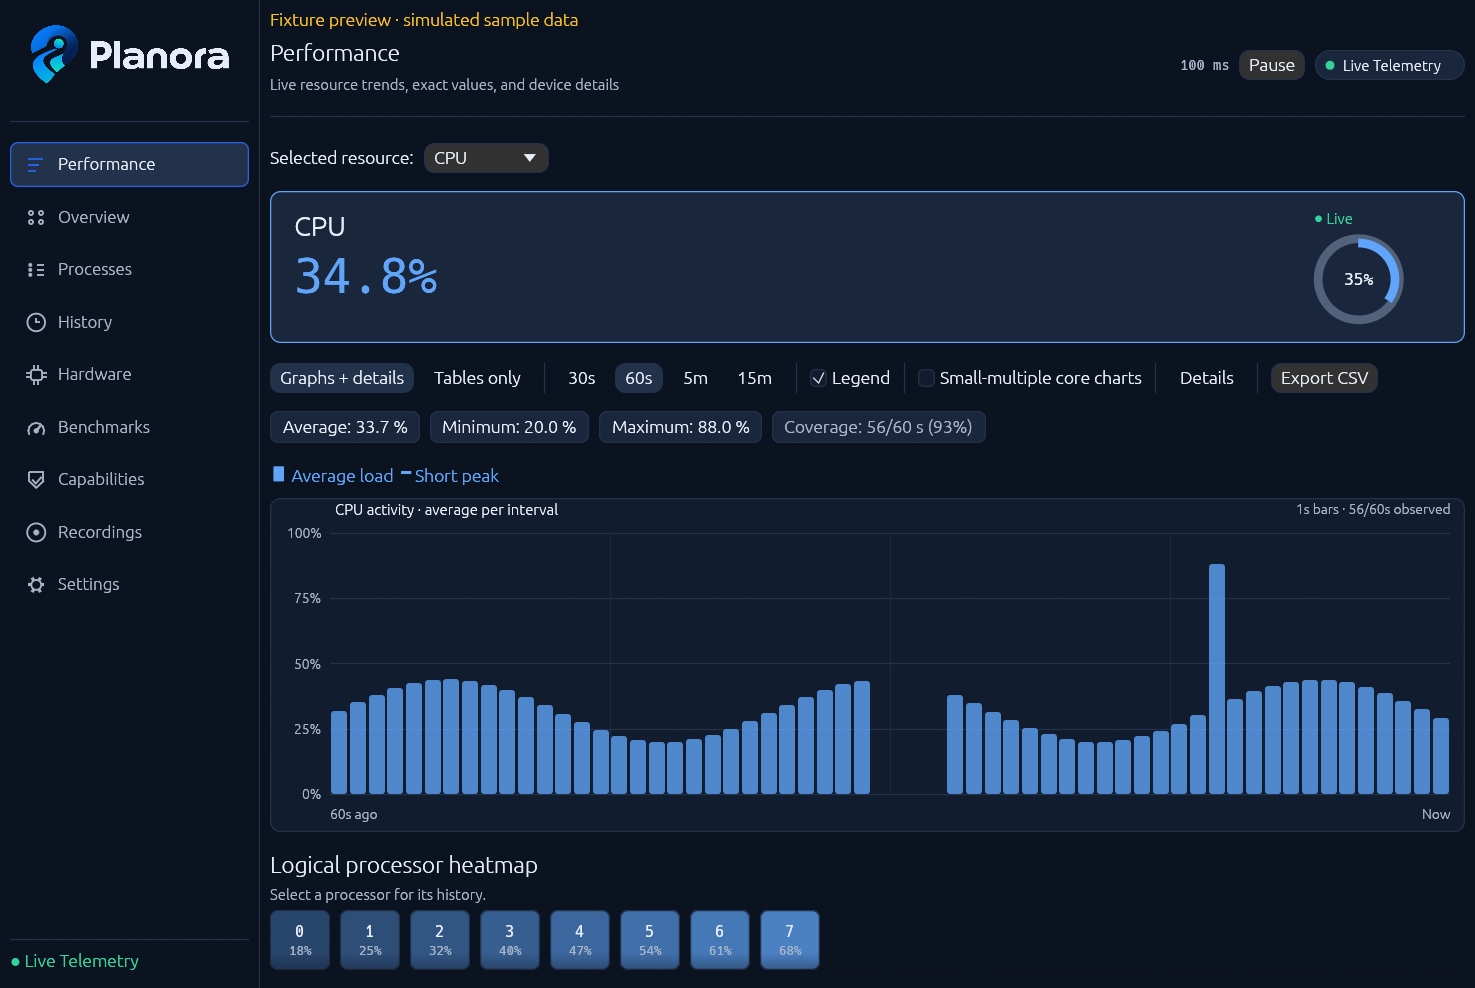
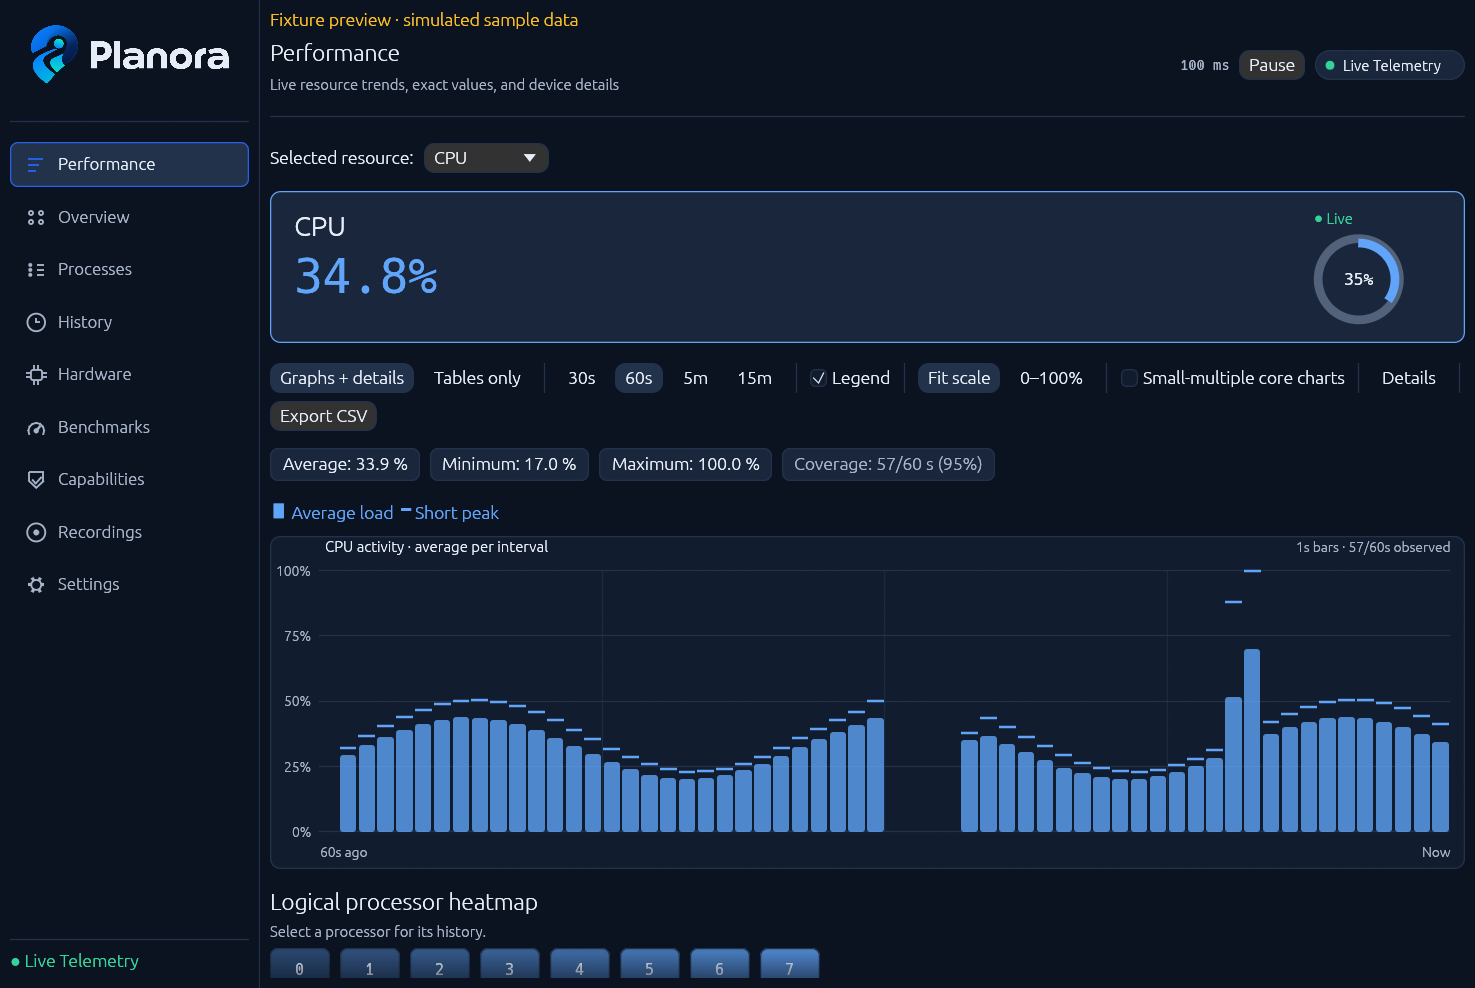
docs: record 0.3.0-beta.16 release evidence and native visual fixtures

diff --git a/docs/release-evidence-0.3.0-beta.16.md b/docs/release-evidence-0.3.0-beta.16.md
@@ -1,0 +1,33 @@
+# Planora 0.3.0-beta.16 internal package evidence
+
+Beta.16 delivers end-to-end telemetry graph smoothing, representation bounds enhancement, and artifact elimination across Performance, History, and Process views. It completely resolves the visual anomalies shown in user feedback screenshots:
+1. **Vertical Needle Strokes**: Eliminated by replacing naive polyline points with Fritsch–Carlson monotone cubic Hermite splines (`monotone_path`) sampled at sample midpoints with strictly increasing horizontal coordinates.
+2. **Faint Vertical Seam Lines**: Eliminated by replacing sequential per-quad fill segments with a continuous single triangle-strip gradient mesh (`area_mesh`), removing double-drawn anti-aliased seam boundaries.
+3. **Honest Extreme Spikes without Distortion**: Added a translucent min..max envelope band (`band_mesh`) behind the mean curve, accurately surfacing telemetry bursts and sub-sample extremes without needle stroke artifacts.
+4. **Unit-Aware Round Binary Axis Scaling**: Implemented binary rate quantization (1, 2, 5, 10, 20, 50, 100, 200, 500 binary prefixes in KiB/s, MiB/s, GiB/s) matching `format_rate()`, alongside adaptive percentage ceilings (10%, 25%, 50%, 100% in Fit mode; 0–100% in Full mode).
+5. **No Readout Overlap**: Moved dynamic metric readouts and units to a dedicated header row above the plot canvas; cursor vertical line and series marker dots snap cleanly to the nearest `ChartPoint`.
+6. **Independent History Lanes**: Upgraded History state to maintain separate `PlotState` instances per lane (`[PlotState; 4]`), eliminating cache thrashing, cursor bleed, and axis hysteresis cross-talk.
+7. **Stable Rate Headlines**: Integrated `latest_stable_value()` 1-second average into disk and network selector chips and headline readouts to eliminate burst-induced visual flickering.
+
+This is an unsigned internal build from committed revision `881887c`, using helper protocol v5 and MSI ProductVersion `0.2.1016`.
+
+| Artifact | SHA-256 |
+| --- | --- |
[6 lines of base64/hex data omitted]
+
+The Setup and MSI hashes were independently verified with `dist/Planora-0.3.0-beta.16-x64.manifest.json`. The packaging script validated WiX output, the GUI subsystem (`Windows GUI`), and the pinned PawnIO signature/hash.
+
+Code formatting (`cargo fmt --all --check`), strict workspace Clippy (`cargo clippy --workspace --all-targets --locked -- -D warnings`), and the complete unit test suite (63 tests in `planora-ui` covering monotonic curves, mesh construction, binary axis division, midpoint aggregation, and independent lane states) passed cleanly.
+
+Visual fixtures were generated natively without helper dependency:
+- [Dark 1180×790 CPU Performance Workspace](screenshots/native/performance-workspace-dark-1180x790-fixture.png)
+- [Light 1024×640 CPU Performance Workspace](screenshots/native/performance-workspace-light-1024x640-fixture.png)
+- [Dark 1180×790 Network Interface Performance Workspace](screenshots/native/performance-network-dark-1180x790-fixture.png)
+- [Dark 1180×790 Multi-Lane History View](screenshots/native/history-lanes-dark-1180x790-fixture.png)
+
+Beta.15 remains preserved in `dist/` as the verified rollback baseline.
